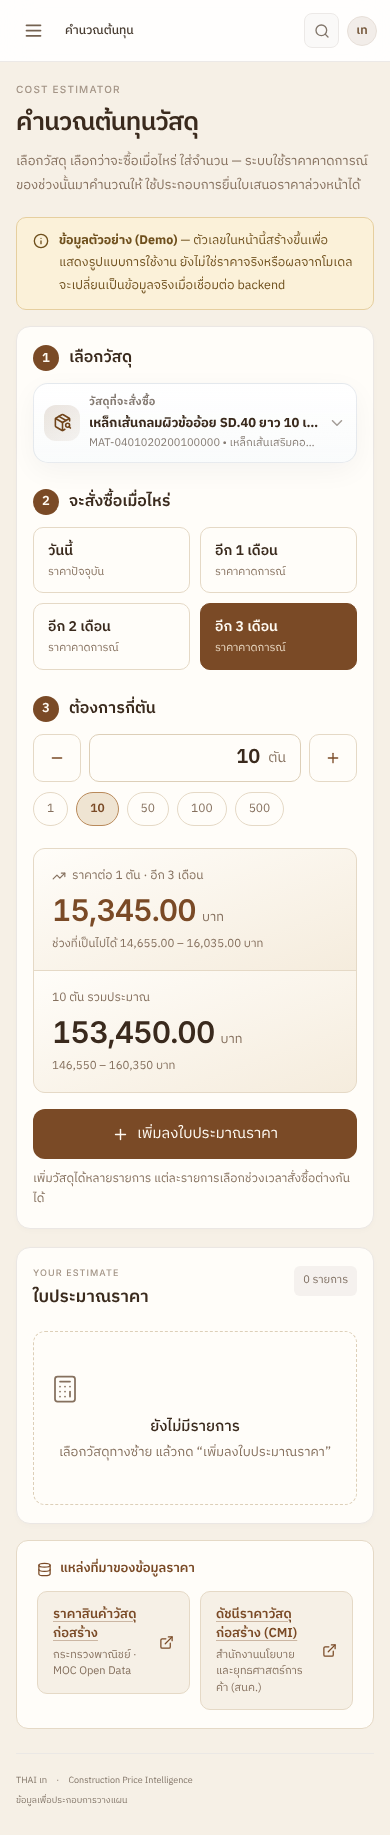
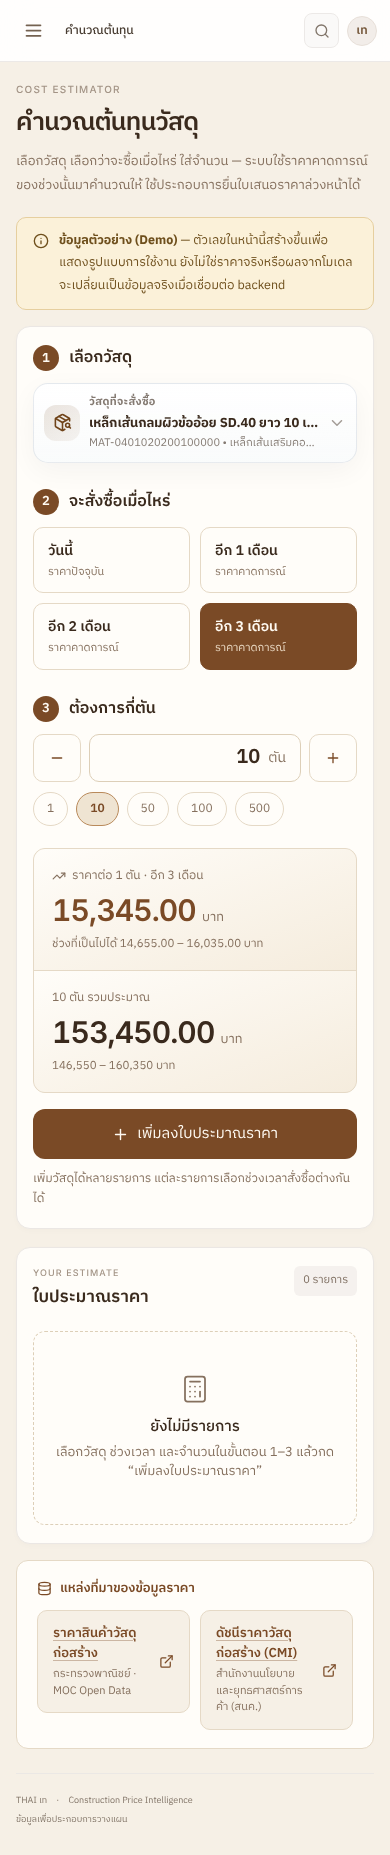
Load motion only when the intro splash shows; fix cost empty state
- Split IntroSplash into a tiny gate (session flag / reduced motion)
  and a lazily imported overlay that pulls in motion, so returning
  visitors and reduced-motion users never download it
- Lazy-load the Overview page like the other pages
- Main bundle drops from 468 KB to 301 KB (gzip 122 KB to 68 KB)
- Cost calculator empty state: center the icon and drop the
  "on the left" wording that is wrong on mobile

Claude-Session: https://claude.ai/code/session_01PZGcVyYfXFNvLBhXnb2rxj

diff --git a/frontend/src/components/ui/intro-splash.tsx b/frontend/src/components/ui/intro-splash.tsx
@@ -1,8 +1,9 @@
-import { useCallback, useEffect, useState } from "react";
-import { AnimatePresence, motion } from "motion/react";
-import { AppleHelloEnglishEffect } from "@/components/ui/apple-hello-effect";
+import { lazy, Suspense, useState } from "react";
 
-const SEEN_KEY = "thai-te-intro-seen";
+export const SEEN_KEY = "thai-te-intro-seen";
+
+// The overlay pulls in motion (the largest dependency), so it is only downloaded when the splash will show.
+const IntroSplashOverlay = lazy(() => import("@/components/ui/intro-splash-overlay"));
 
 function alreadySeen() {
   try { return sessionStorage.getItem(SEEN_KEY) === "1"; } catch { return false; }
@@ -15,48 +16,11 @@ function prefersReducedMotion() {
  * หน้าต้อนรับตอนเปิดเว็บ: ตัวเขียน "hello" เขียนเองทีละเส้น แล้วเฟดเข้าสู่หน้าเว็บ
  * - แสดงครั้งเดียวต่อการเปิดแท็บ (กดรีเฟรชแล้วไม่ขึ้นซ้ำ)
  * - ข้ามได้ด้วยปุ่ม "ข้าม" หรือกด Esc / Enter / Space
- * - ผู้ใช้ที่ตั้งค่าลดการเคลื่อนไหวในระบบ จะไม่เห็นหน้านี้
+ * - ผู้ใช้ที่ตั้งค่าลดการเคลื่อนไหวในระบบ จะไม่เห็นหน้านี้ และไม่ต้องโหลด motion
  */
 export function IntroSplash() {
-  const [show, setShow] = useState(() => !alreadySeen() && !prefersReducedMotion());
-
-  const close = useCallback(() => {
-    try { sessionStorage.setItem(SEEN_KEY, "1"); } catch { /* ignore */ }
-    setShow(false);
-  }, []);
-
-  useEffect(() => {
-    if (!show) return;
-    const oldOverflow = document.body.style.overflow;
-    document.body.style.overflow = "hidden";
-    const onKey = (e: KeyboardEvent) => { if (["Escape", "Enter", " "].includes(e.key)) { e.preventDefault(); close(); } };
-    window.addEventListener("keydown", onKey);
-    const safety = window.setTimeout(close, 7000); // กันค้าง
-    return () => { document.body.style.overflow = oldOverflow; window.removeEventListener("keydown", onKey); window.clearTimeout(safety); };
-  }, [show, close]);
-
-  return (
-    <AnimatePresence>
-      {show && (
-        <motion.div
-          className="intro-splash"
-          role="dialog"
-          aria-label="ยินดีต้อนรับสู่ THAI เท"
-          initial={{ opacity: 1 }}
-          exit={{ opacity: 0, scale: 1.02 }}
-          transition={{ duration: 0.6, ease: "easeInOut" }}
-          onClick={close}
-        >
-          <div className="intro-splash-inner">
-            <AppleHelloEnglishEffect speed={0.9} className="intro-hello" onAnimationComplete={() => window.setTimeout(close, 900)} />
-            <motion.div className="intro-caption" initial={{ opacity: 0, y: 10 }} animate={{ opacity: 1, y: 0 }} transition={{ delay: 2.2, duration: 0.8 }}>
-              <strong>ยินดีต้อนรับสู่ THAI <b>เท</b></strong>
-              <span>ติดตามราคาวัสดุก่อสร้าง · พยากรณ์ 1–3 เดือน · คำนวณต้นทุน</span>
-            </motion.div>
-          </div>
-          <button type="button" className="intro-skip" onClick={e => { e.stopPropagation(); close(); }}>ข้าม</button>
-        </motion.div>
-      )}
-    </AnimatePresence>
-  );
+  const [show] = useState(() => !alreadySeen() && !prefersReducedMotion());
+  if (!show) return null;
+  // Fallback paints the same backdrop so the page underneath never flashes while the overlay loads.
+  return <Suspense fallback={<div className="intro-splash" aria-hidden="true" />}><IntroSplashOverlay /></Suspense>;
 }

diff --git a/frontend/src/components/ui/intro-splash-overlay.tsx b/frontend/src/components/ui/intro-splash-overlay.tsx
@@ -1,0 +1,49 @@
+import { useCallback, useEffect, useState } from "react";
+import { AnimatePresence, motion } from "motion/react";
+import { AppleHelloEnglishEffect } from "@/components/ui/apple-hello-effect";
+import { SEEN_KEY } from "@/components/ui/intro-splash";
+
+/** ส่วนแสดงผลของหน้าต้อนรับ (ใช้ motion) — โหลดแยกจาก intro-splash.tsx เฉพาะตอนที่ต้องแสดง */
+export default function IntroSplashOverlay() {
+  const [show, setShow] = useState(true);
+
+  const close = useCallback(() => {
+    try { sessionStorage.setItem(SEEN_KEY, "1"); } catch { /* ignore */ }
+    setShow(false);
+  }, []);
+
+  useEffect(() => {
+    if (!show) return;
+    const oldOverflow = document.body.style.overflow;
+    document.body.style.overflow = "hidden";
+    const onKey = (e: KeyboardEvent) => { if (["Escape", "Enter", " "].includes(e.key)) { e.preventDefault(); close(); } };
+    window.addEventListener("keydown", onKey);
+    const safety = window.setTimeout(close, 7000); // กันค้าง
+    return () => { document.body.style.overflow = oldOverflow; window.removeEventListener("keydown", onKey); window.clearTimeout(safety); };
+  }, [show, close]);
+
+  return (
+    <AnimatePresence>
+      {show && (
+        <motion.div
+          className="intro-splash"
+          role="dialog"
+          aria-label="ยินดีต้อนรับสู่ THAI เท"
+          initial={{ opacity: 1 }}
+          exit={{ opacity: 0, scale: 1.02 }}
+          transition={{ duration: 0.6, ease: "easeInOut" }}
+          onClick={close}
+        >
+          <div className="intro-splash-inner">
+            <AppleHelloEnglishEffect speed={0.9} className="intro-hello" onAnimationComplete={() => window.setTimeout(close, 900)} />
+            <motion.div className="intro-caption" initial={{ opacity: 0, y: 10 }} animate={{ opacity: 1, y: 0 }} transition={{ delay: 2.2, duration: 0.8 }}>
+              <strong>ยินดีต้อนรับสู่ THAI <b>เท</b></strong>
+              <span>ติดตามราคาวัสดุก่อสร้าง · พยากรณ์ 1–3 เดือน · คำนวณต้นทุน</span>
+            </motion.div>
+          </div>
+          <button type="button" className="intro-skip" onClick={e => { e.stopPropagation(); close(); }}>ข้าม</button>
+        </motion.div>
+      )}
+    </AnimatePresence>
+  );
+}

diff --git a/frontend/src/pages/CostCalculator.tsx b/frontend/src/pages/CostCalculator.tsx
@@ -117,7 +117,7 @@ export default function CostCalculator({ selectedId, onSelect, lines, setLines }
       <section className="card scope-panel estimate" aria-label="ใบประมาณราคา">
         <div className="scope-panel-title"><div><span className="section-kicker">YOUR ESTIMATE</span><h2>ใบประมาณราคา</h2></div><span className="subtle-tag">{lines.length} รายการ</span></div>
         {!lines.length ? (
-          <div className="estimate-empty"><Calculator size={30} strokeWidth={1.4} /><h3>ยังไม่มีรายการ</h3><p>เลือกวัสดุทางซ้าย แล้วกด “เพิ่มลงใบประมาณราคา”</p></div>
+          <div className="estimate-empty"><Calculator size={30} strokeWidth={1.4} /><h3>ยังไม่มีรายการ</h3><p>เลือกวัสดุ ช่วงเวลา และจำนวนในขั้นตอน 1–3 แล้วกด “เพิ่มลงใบประมาณราคา”</p></div>
         ) : (
           <>
             <ul className="estimate-lines">

diff --git a/frontend/src/styles/structural.css b/frontend/src/styles/structural.css
@@ -178,6 +178,7 @@
 .hint { font-size:12px; color:var(--muted-foreground); margin:10px 0 0; line-height:1.7; } .hint.warn { color:#8a5a14; background:#fbf1d9; padding:8px 12px; border-radius:8px; }
 .estimate { position:sticky; top:96px; }
 .estimate-empty { text-align:center; padding:42px 16px; color:var(--muted-foreground); border:1px dashed var(--input); border-radius:12px; }
+.estimate-empty svg { margin-inline:auto; }
 .estimate-empty h3 { margin:12px 0 4px; font-size:15px; font-weight:500; color:var(--foreground); } .estimate-empty p { margin:0; font-size:13px; }
 .estimate-lines { list-style:none; margin:0; padding:0; display:grid; gap:8px; max-height:340px; overflow:auto; }
 .estimate-lines li { display:grid; grid-template-columns:minmax(0,1fr) 108px auto 34px; gap:10px; align-items:center; padding:11px 12px; border:1px solid var(--border); border-radius:10px; background:var(--card); }

diff --git a/frontend/src/main.tsx b/frontend/src/main.tsx
@@ -5,10 +5,10 @@ import { defaultMaterialId, getMaterialById, navItems } from "@/data.js";
 import { Button } from "@/components/ui/button";
 import { Header } from "@/components/ui/header-3";
 import { IntroSplash } from "@/components/ui/intro-splash";
-import Overview from "@/pages/Overview";
 import type { EstimateLine, Navigate, PageId } from "@/types";
 import "./styles.css";
 
+const Overview = lazy(() => import("./pages/Overview"));
 const Materials = lazy(() => import("./pages/Materials"));
 const Forecast = lazy(() => import("./pages/Forecast"));
 const Analysis = lazy(() => import("./pages/Analysis"));

diff --git a/CHANGES_v0.6.md b/CHANGES_v0.6.md
@@ -45,3 +45,9 @@
 - ภาพใน `preview/` ถ่ายใหม่จาก build v0.6 ทั้งหมด และ `verification.md` / `frontend-ui-results.json` เป็นผลตรวจรอบใหม่
 - นำโค้ดที่ไม่ได้ใช้ออก: `src/future`, `Shared.jsx`, `demo.tsx`, `make-data.cjs` (ทั้งสองไฟล์), export `priceData` / `forecastData` และ dependency `pdfjs-dist`, `xlsx` (กู้คืนได้จาก commit `9c0c9cd` ดู `frontend/README.md`)
 - CSS: `legacy.css` เปลี่ยนเป็น `base.css` ลบ declaration ที่ถูก `app.css` / `structural.css` ทับเสมอ และ rule ของ class ที่ไม่มีในโค้ดแล้วออกจากทั้งสามไฟล์ (CSS ใน build เล็กลงจาก ~114 KB เหลือ ~96 KB) หน้าเว็บแสดงผลเหมือนเดิมทุก pixel
+
+## อัปเดต: โหลดเร็วขึ้น และแก้หน้าคำนวณต้นทุน
+- JavaScript หลักที่โหลดทุกครั้งลดจาก 468 KB เหลือ 301 KB (gzip 122 → 68 KB)
+  - `motion` ซึ่งใหญ่ที่สุดใช้แค่หน้าต้อนรับ จึงแยกเป็น `intro-splash-overlay.tsx` โหลดเฉพาะตอนที่หน้าต้อนรับจะแสดง (ครั้งแรกของแท็บ) ผู้ที่เคยเห็นแล้ว หรือตั้ง "ลดการเคลื่อนไหว" ไม่ต้องโหลด
+  - หน้าภาพรวม lazy-load เหมือนหน้าอื่น หน้าแรกจึงไม่ต้องโหลดโค้ดหน้าภาพรวม
+- หน้าคำนวณต้นทุน: ไอคอนในกล่อง "ยังไม่มีรายการ" อยู่กลาง และข้อความไม่อ้าง "ทางซ้าย" แล้ว (บนมือถือฟอร์มอยู่ด้านบน)

diff --git a/frontend/README.md b/frontend/README.md
@@ -31,7 +31,7 @@ build ตรวจ TypeScript ก่อนสร้างไฟล์ production
 
 ## หน้าในแอป
 
-routing ใช้ hash (`#...`) เก็บใน `src/main.tsx`
+routing ใช้ hash (`#...`) เก็บใน `src/main.tsx` ทุกหน้า lazy-load แยกไฟล์ เปิดหน้าไหนก็โหลดเฉพาะหน้านั้น
 
 | hash | หน้า | ไฟล์ |
 |---|---|---|
@@ -63,7 +63,8 @@ routing ใช้ hash (`#...`) เก็บใน `src/main.tsx`
 | `src/components/ui/material-categories.tsx` | ปุ่มหมวดวัสดุพร้อมจำนวนรายการ |
 | `src/components/ui/material-details.tsx` | รายละเอียดวัสดุที่เลือก |
 | `src/components/ui/scope-layout.tsx` | หัวข้อหน้าและการ์ดสถิติ |
-| `src/components/ui/intro-splash.tsx` + `apple-hello-effect.tsx` | หน้าต้อนรับ "hello" ตอนเปิดเว็บ |
+| `src/components/ui/intro-splash.tsx` | ตัดสินว่าจะแสดงหน้าต้อนรับหรือไม่ (โหลดทันที ขนาดเล็ก) |
+| `src/components/ui/intro-splash-overlay.tsx` + `apple-hello-effect.tsx` | หน้าต้อนรับ "hello" ใช้ motion โหลดแยกเฉพาะตอนที่ต้องแสดง |
 | `src/lib/utils.ts` | cn() จาก clsx และ tailwind-merge |
 | `src/styles.css` | style entry, font และ Tailwind theme |
 | `src/styles/base.css` | reset และ layout พื้นฐาน (ส่วนที่ยังใช้จาก CSS รุ่นแรก) |
